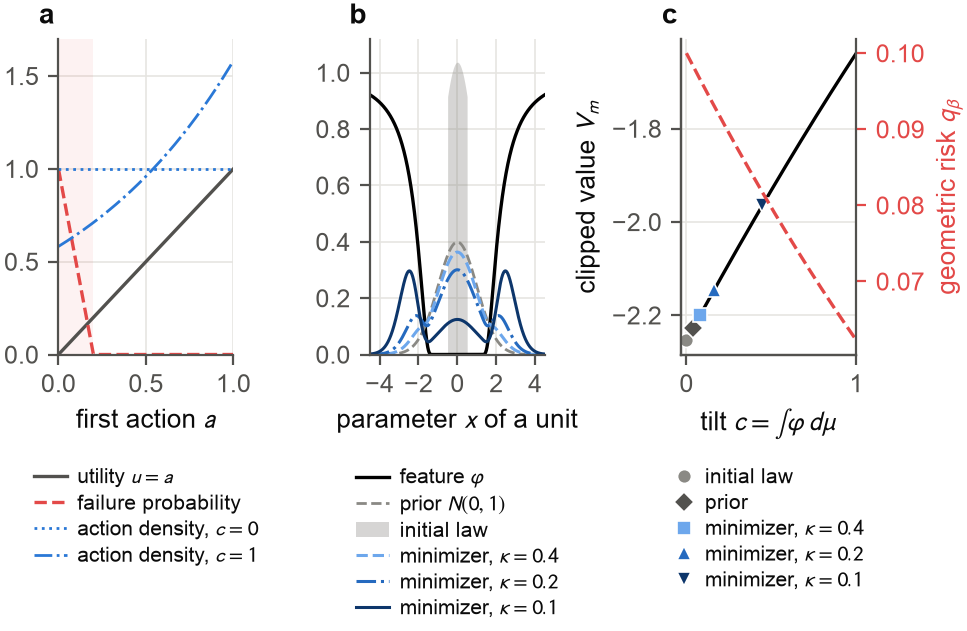
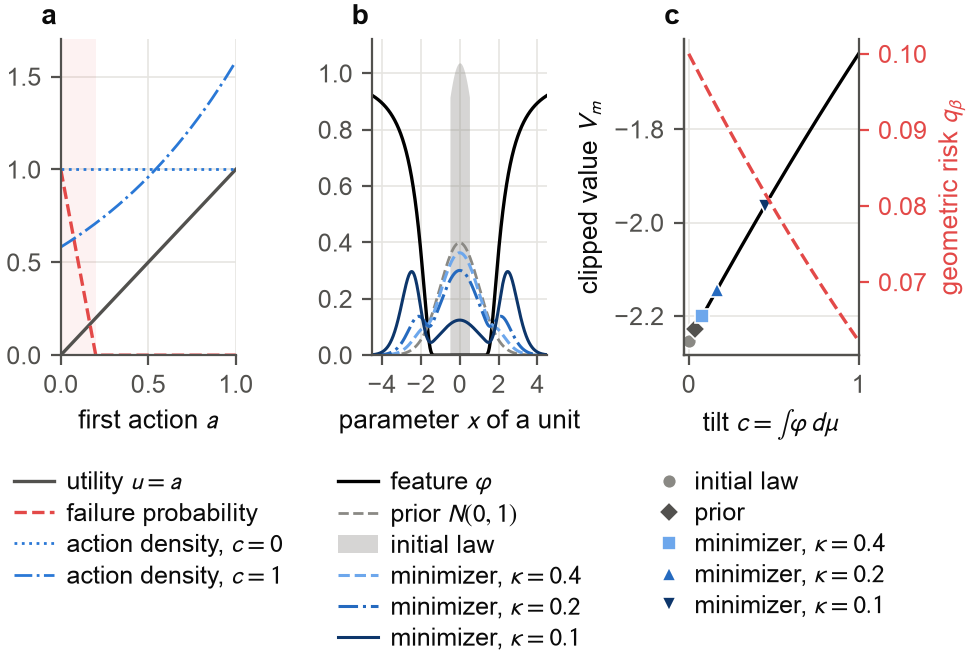
Analytical example, setup figure: legends at the minimum lettering size of the figure style

diff --git a/solvable-flow/example_setup_v76.py b/solvable-flow/example_setup_v76.py
@@ -70,7 +70,7 @@ for c, ls in ((0.0, ":"), (1.0, "-.")):
     dens = np.exp(c * a) * (c / np.expm1(c) if c > 0 else 1.0)
     ax.plot(a, dens, color=PAL[0], lw=1.0, ls=ls, label=f"action density, $c={c:g}$")
 ax.set_xlabel("first action $a$"); ax.set_ylim(0, 1.7); ax.set_xlim(0, 1)
-ax.legend(loc="upper center", bbox_to_anchor=(0.5, -0.32), fontsize=FS - 1.5, ncol=1, handlelength=1.6)
+ax.legend(loc="upper center", bbox_to_anchor=(0.5, -0.32), fontsize=FS, ncol=1, handlelength=1.6)
 panel_label(ax, "a")
 
 # (b) the parametrization
@@ -88,7 +88,7 @@ for kappa, col, mk, ls in KAPPAS:
     ax.plot(x, e / np.trapezoid(np.exp(r["theta"] * FQ) * WQ, XQ), color=col, lw=1.1, ls=ls, label=f"minimizer, $\\kappa={kappa:g}$")
     marks.append((f"minimizer, $\\kappa={kappa:g}$", r["c"], col, mk))
 ax.set_xlim(-4.5, 4.5); ax.set_ylim(0, 1.12); ax.set_xlabel("parameter $x$ of a unit"); ax.set_xticks([-4, -2, 0, 2, 4])
-ax.legend(loc="upper center", bbox_to_anchor=(0.5, -0.32), fontsize=FS - 1.5, ncol=1, handlelength=1.6)
+ax.legend(loc="upper center", bbox_to_anchor=(0.5, -0.32), fontsize=FS, ncol=1, handlelength=1.6)
 panel_label(ax, "b")
 
 # (c) clipped value and risk against the tilt
@@ -104,7 +104,7 @@ for lab, c, col, mk in marks:
     ax.plot([c], [v], marker=mk, ms=5, color=col, mec="white", mew=0.6, ls="none", label=lab, zorder=4)
     out[lab] = dict(c=float(c), V_m=v, q_beta=q, U=float(np.interp(c, curve["c"], curve["U"])))
 ax.set_xlim(-0.03, 1.0)
-ax.legend(loc="upper center", bbox_to_anchor=(0.5, -0.32), fontsize=FS - 1.5, ncol=1, handlelength=1.0)
+ax.legend(loc="upper center", bbox_to_anchor=(0.5, -0.32), fontsize=FS, ncol=1, handlelength=1.0)
 panel_label(ax, "c")
 # the closed form against the final laws of the stored flows
 check = {}
